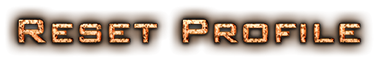
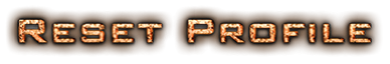
menu option bien calé + music on off fonctionnel + réninitialiser profil fonctionnel"

diff --git a/src/Bouton.py b/src/Bouton.py
@@ -43,10 +43,11 @@ class BoutonOption(Bouton):
         self.player = player
     def action(self):
         ecranOption = Menu.menuOption("images/menu/menu_option/background_menu_option.jpg", self.player)
-        ecranOption.addButton(BoutonSound("images/menu/menu_option/on.png", 500, 250, self.player, True))
-        ecranOption.addButton(BoutonMusic("images/menu/menu_option/on.png", 500, 290, self.player))
-        ecranOption.addButton(BoutonShop("images/menu/menu_option/shop.png",400 , 380, self.player))
-        ecranOption.addButton(BoutonBack("images/menu/menu_option/back.png",450 , 460, self.player, self.player))
+        ecranOption.addButton(BoutonSound("images/menu/menu_option/on.png", 530, 255, self.player, True))
+        ecranOption.addButton(BoutonMusic("images/menu/menu_option/on.png", 530, 325, self.player))
+        ecranOption.addButton(BoutonReinitialiser("images/menu/menu_option/reset_profile.png",344 , 388, self.player))
+        ecranOption.addButton(BoutonShop("images/menu/menu_option/shop.png",414 , 455, self.player))
+        ecranOption.addButton(BoutonBack("images/menu/menu_option/back.png",460 , 543, self.player))
         ecranOption.afficher()
         
 class BoutonCredits(Bouton):   
@@ -69,7 +70,9 @@ class BoutonSound(Bouton):
         self.player = player      
     def action(self):
         if self.player.sound: self.player.sound = False
-        else: self.player.sound = True
+        else: 
+            self.player.sound = True
+            self.player.save()
         
 class BoutonMusic(Bouton): 
     def __init__(self, image, x, y, player, isSelected=False):
@@ -78,7 +81,9 @@ class BoutonMusic(Bouton):
         self.player = player    
     def action(self):
         if self.player.musicOn: self.player.musicOn = False
-        else: self.player.musicOn = True
+        else: 
+            self.player.musicOn = True
+            self.player.save()
 
 class BoutonReinitialiser(Bouton): 
     def __init__(self, image, x, y, player, isSelected=False):
@@ -87,12 +92,14 @@ class BoutonReinitialiser(Bouton):
     def action(self):
         self.player = Player.Player()
         self.player.save()
-        ecranOption = Menu.menuOption("images/menu/menu.jpg", self.player)
-        ecranOption.addButton(BoutonSound("images/menu/menu/titles/sound.png", 0, 270, self.player, True))
-        ecranOption.addButton(BoutonMusic("images/menu/menu/titles/music.png", 0, 340, self.player))
-        #ecranOption.addButton(BoutonChangeName("images/menu/menu/titles/modifierNom.png"), 200, 400)
-        ecranOption.addButton(BoutonReinitialiser("images/menu/menu/titles/reinitialiser.png",0 , 485, self.player))
+        ecranOption = Menu.menuOption("images/menu/menu_option/background_menu_option.jpg", self.player)
+        ecranOption.addButton(BoutonSound("images/menu/menu_option/on.png", 530, 255, self.player, True))
+        ecranOption.addButton(BoutonMusic("images/menu/menu_option/on.png", 530, 325, self.player))
+        ecranOption.addButton(BoutonReinitialiser("images/menu/menu_option/reset_profile.png",344 , 388, self.player))
+        ecranOption.addButton(BoutonShop("images/menu/menu_option/shop.png",414 , 455, self.player))
+        ecranOption.addButton(BoutonBack("images/menu/menu_option/back.png",460 , 543, self.player))
         ecranOption.afficher()
+        
 
         
 class BoutonBack(Bouton): 
@@ -101,7 +108,7 @@ class BoutonBack(Bouton):
         self.player = player
     def action(self):
         ecranAccueil = Menu.Menu("images/menu/menu.jpg")
-        ecranAccueil.addButton(BoutonStartGame("images/menu/menu_principal/titles/play.png",0, 270, True))
+        ecranAccueil.addButton(BoutonStartGame("images/menu/menu_principal/titles/play.png",0, 270, self.player, True))
         ecranAccueil.addButton(BoutonOption("images/menu/menu_principal/titles/option.png",0, 340, self.player))
         ecranAccueil.addButton(BoutonCredits("images/menu/menu_principal/titles/credits.png",0, 415))
         ecranAccueil.addButton(BoutonQuit("images/menu/menu_principal/titles/quit.png",0, 485))

diff --git a/src/Partie.py b/src/Partie.py
@@ -14,15 +14,19 @@ import Ship
 import Obstacle
 import random
 import Bonus
+import Menu
+import Bouton
 
 ''' CLASSE '''
 class Partie:  
-
+    
+    pygame.init()  
     ''' FONCTION QUI INSTANCIE nombre DE SNAKE
     ''  le type de deplacement est tire aleatoirement
     ''  ainsi que les coefiscients pour un deplacement en droite '''
     def __init__(self, player):
         self.player = player
+        self.music = pygame.mixer.Sound("sounds/music.wav")
 
     def creerSnakes(self,width, height, snakes, nombre=0):
         positionChaine = random.randint(100,height-180)
@@ -94,7 +98,12 @@ class Partie:
                 if event.type == pygame.QUIT: sys.exit()
                 elif event.type == pygame.KEYDOWN:
                     if event.key == pygame.K_ESCAPE:
-                        sys.exit()
+                        ecranAccueil = Menu.Menu("images/menu/menu.jpg")
+                        ecranAccueil.addButton(Bouton.BoutonStartGame("images/menu/menu_principal/titles/play.png",0, 270, self.player, True))
+                        ecranAccueil.addButton(Bouton.BoutonOption("images/menu/menu_principal/titles/option.png",0, 340, self.player))
+                        ecranAccueil.addButton(Bouton.BoutonCredits("images/menu/menu_principal/titles/credits.png",0, 415))
+                        ecranAccueil.addButton(Bouton.BoutonQuit("images/menu/menu_principal/titles/quit.png",0, 485))
+                        ecranAccueil.afficher()
                     elif event.key == pygame.K_RETURN:
                         p = Partie(self.player)
                         p.jouer()
@@ -341,8 +350,7 @@ class Partie:
             (x,y) = monVaisseau.getPos()
             screen.blit(imgShield, (x,y-10))
 
-    def jouer(self):
-        pygame.init()       
+    def jouer(self):     
         ##### PARAMETRES DE LA FENETRE #####
         size = width, height = 1024,768
         screen = pygame.display.set_mode(size, pygame.FULLSCREEN)
@@ -374,8 +382,7 @@ class Partie:
         bonus = pygame.sprite.Group()
         coins = pygame.sprite.Group()
         ##### MUSIQUE #####
-        if self.player.musicOn:
-            self.music = pygame.mixer.Sound("sounds/music.wav")
+        
         ##### MENU COMMENCER #####
         menuStartOn=True
         '''################################################################## ''
@@ -399,7 +406,8 @@ class Partie:
                     elif event.type == pygame.KEYDOWN:
                         if event.key == pygame.K_RETURN:
                             menuStartOn=False
-                            self.music.play(-1)
+                            if self.player.musicOn:
+                                self.music.play(-1)
                         elif event.key == pygame.K_ESCAPE:
                             sys.exit()
                             

diff --git a/src/Menu.py b/src/Menu.py
@@ -83,21 +83,23 @@ class menuOption(Menu):
             if self.player.sound:
                 screen.blit(self.boutons[0].image, self.boutons[0].rect)
             else:
-                screen.blit(self.boutons[0].imageNon, (self.boutons[0].rect.left+100,self.boutons[0].rect.top))
+                screen.blit(self.boutons[0].imageNon, (self.boutons[0].rect.left+93,self.boutons[0].rect.top))
         elif self.boutons[1].isSelected:
-            if self.player.music:
+            if self.player.musicOn:
                 screen.blit(self.boutons[1].image, self.boutons[1].rect)
             else:
-                screen.blit(self.boutons[1].imageNon, (self.boutons[1].rect.left+100,self.boutons[1].rect.top))  
+                screen.blit(self.boutons[1].imageNon, (self.boutons[1].rect.left+93,self.boutons[1].rect.top))  
         elif self.boutons[2].isSelected:
             screen.blit(self.boutons[2].image, self.boutons[2].rect)
         elif self.boutons[3].isSelected:
-            screen.blit(self.boutons[3].image, self.boutons[3].rect)       
+            screen.blit(self.boutons[3].image, self.boutons[3].rect)
+        elif self.boutons[4].isSelected:
+            screen.blit(self.boutons[4].image, self.boutons[4].rect)         
         pygame.display.update()
         
     def whenEscape(self):
         ecranAccueil = Menu("images/menu/menu.jpg")
-        ecranAccueil.addButton(Bouton.BoutonStartGame("images/menu/menu_principal/titles/play.png",0, 270, True))
+        ecranAccueil.addButton(Bouton.BoutonStartGame("images/menu/menu_principal/titles/play.png",0, 270, self.player, True))
         ecranAccueil.addButton(Bouton.BoutonOption("images/menu/menu_principal/titles/option.png",0, 340, self.player))
         ecranAccueil.addButton(Bouton.BoutonCredits("images/menu/menu_principal/titles/credits.png",0, 415))
         ecranAccueil.addButton(Bouton.BoutonQuit("images/menu/menu_principal/titles/quit.png",0, 485))

diff --git a/src/Appli.py b/src/Appli.py
@@ -3,7 +3,6 @@ import Player
 import Bouton
 
 ##### LISTES DE BOUTONS #####
-
 player = Player.Player.loadDatas()
 '''Affichage du menu d'accueil'''
 ecranAccueil = Menu.Menu("images/menu/menu.jpg", player)
